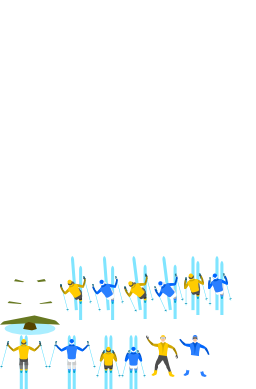
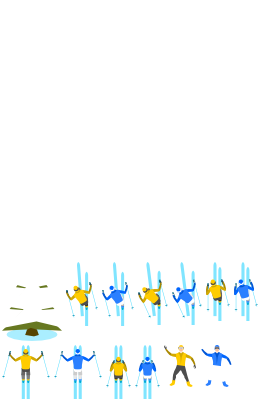
Fixed border in atlas

Changed region(s): [[0.0, 0.6478, 1.0, 1.0], [0.125, 0.7095, 0.1875, 0.7404]]

diff --git a/index.html b/index.html
@@ -57,8 +57,8 @@ var atlas,
 	upsideDown,
 	width,
 	height,
-	centerX,
-	centerY,
+	mapWidth,
+	mapHeight,
 	pointerLength = 0,
 	pointerX = [],
 	pointerY = [],
@@ -261,7 +261,7 @@ function reset()
 {
 	var cell = width/playersLength,
 		x = cell >> 1,
-		y = centerY*1.75 | 0;
+		y = height*.9 | 0;
 
 	for( var n = playersLength; n--; x += cell )
 		players[n] = {
@@ -272,36 +272,20 @@ function reset()
 				"skierBlueStraight" :
 				"skierYellowStraight"] };
 
-	var sw = sprites.tree.width,
-		sh = sprites.tree.height,
-		w = sw*1.5 | 0,
-		h = sh*1.5 | 0,
-		rx = sw*.5 | 0,
-		ry = sh*.5 | 0,
-		cols = width/w | 0,
-		rows = height/h | 0,
-		map = [];
+	mapWidth = width;
+	mapHeight = height;
 
-	for( var n = objectsLength; n--; )
-		for( ;; )
-		{
-			var x = Math.random()*(cols-1) | 0,
-				y = Math.random()*(rows-1) | 0,
-				offset = y*cols+x;
+	for( var n = objectsLength, y = 0;
+		n--;
+		y += Math.random()*.1 )
+	{
+		var x = Math.random();
 
-			if( map[offset] != 1 )
-			{
-				map[offset] = 1;
-
-				objects[n] = {
-					x: x*w+(Math.random()*rx | 0),
-					y: y*h+(Math.random()*ry | 0),
-					sprite: sprites.tree
-				};
-
-				break;
-			}
-		}
+		objects[n] = {
+			x: (n % 2 ? (x < .5 ? 0 : .9)+x*.1 : x)*mapWidth | 0,
+			y: y*mapHeight | 0,
+			sprite: sprites.tree };
+	}
 }
 
 function scale( styleWidth )
@@ -309,99 +293,101 @@ function scale( styleWidth )
 	var frames = {
 			skierBlueStraight: {
 				rotate: true,
-				frame: {/*skier-blue-straight*/x:121,y:335,w:25,h:54}
+				frame: {/*skier-blue-straight*/x:135,y:345,w:25,h:54}
 			},
 			skierBlueJump: {
 				rotate: true,
-				frame: {/*skier-blue-jump*/x:48,y:335,w:48,h:54}
+				frame: {/*skier-blue-jump*/x:54,y:345,w:48,h:54}
 			},
 			skierBlueLeanLeft1: {
 				rotate: true,
-				frame: {/*skier-blue-lean1-left*/x:208,y:256,w:24,h:59}
+				frame: {/*skier-blue-lean1-left*/x:234,y:262,w:24,h:59}
 			},
 			skierBlueLeanLeft2: {
 				rotate: true,
-				frame: {/*skier-blue-lean2-left*/x:92,y:256,w:32,h:64}
+				frame: {/*skier-blue-lean2-left*/x:102,y:262,w:32,h:64}
 			},
 			skierBlueLeanLeft3: {
 				rotate: true,
-				frame: {/*skier-blue-lean3-left*/x:154,y:256,w:30,h:63}
+				frame: {/*skier-blue-lean3-left*/x:172,y:262,w:30,h:63}
 			},
 			skierBlueLeanRight1: {
 				mirror: true,
 				rotate: true,
-				frame: {/*skier-blue-lean1-left*/x:208,y:256,w:24,h:59}
+				frame: {/*skier-blue-lean1-left*/x:234,y:262,w:24,h:59}
 			},
 			skierBlueLeanRight2: {
 				mirror: true,
 				rotate: true,
-				frame: {/*skier-blue-lean2-left*/x:92,y:256,w:32,h:64}
+				frame: {/*skier-blue-lean2-left*/x:102,y:262,w:32,h:64}
 			},
 			skierBlueLeanRight3: {
 				mirror: true,
 				rotate: true,
-				frame: {/*skier-blue-lean3-left*/x:154,y:256,w:30,h:63}
+				frame: {/*skier-blue-lean3-left*/x:172,y:262,w:30,h:63}
 			},
 			skierBlueCrashed: {
-				frame: {/*skier-blue-crashed*/x:178,y:335,w:32,h:42}
+				frame: {/*skier-blue-crashed*/x:200,y:345,w:32,h:42}
 			},
 			skierYellowStraight: {
 				rotate: true,
-				frame: {/*skier-yellow-straight*/x:96,y:335,w:25,h:54}
+				frame: {/*skier-yellow-straight*/x:106,y:345,w:25,h:54}
 			},
 			skierYellowJump: {
 				rotate: true,
-				frame: {/*skier-yellow-jump*/x:0,y:335,w:48,h:54}
+				frame: {/*skier-yellow-jump*/x:2,y:345,w:48,h:54}
 			},
 			skierYellowLeanLeft1: {
 				rotate: true,
-				frame: {/*skier-yellow-lean1-left*/x:184,y:256,w:24,h:59}
+				frame: {/*skier-yellow-lean1-left*/x:206,y:262,w:24,h:59}
 			},
 			skierYellowLeanLeft2: {
 				rotate: true,
-				frame: {/*skier-yellow-lean2-left*/x:60,y:256,w:32,h:64}
+				frame: {/*skier-yellow-lean2-left*/x:66,y:262,w:32,h:64}
 			},
 			skierYellowLeanLeft3: {
 				rotate: true,
-				frame: {/*skier-yellow-lean3-left*/x:124,y:256,w:30,h:63}
+				frame: {/*skier-yellow-lean3-left*/x:138,y:262,w:30,h:63}
 			},
 			skierYellowLeanRight1: {
 				mirror: true,
 				rotate: true,
-				frame: {/*skier-yellow-lean1-left*/x:184,y:256,w:24,h:59}
+				frame: {/*skier-yellow-lean1-left*/x:206,y:262,w:24,h:59}
 			},
 			skierYellowLeanRight2: {
 				mirror: true,
 				rotate: true,
-				frame: {/*skier-yellow-lean2-left*/x:60,y:256,w:32,h:64}
+				frame: {/*skier-yellow-lean2-left*/x:66,y:262,w:32,h:64}
 			},
 			skierYellowLeanRight3: {
 				mirror: true,
 				rotate: true,
-				frame: {/*skier-yellow-lean3-left*/x:124,y:256,w:30,h:63}
+				frame: {/*skier-yellow-lean3-left*/x:138,y:262,w:30,h:63}
 			},
 			skierYellowCrashed: {
-				frame: {/*skier-yellow-crashed*/x:146,y:335,w:32,h:42}
+				frame: {/*skier-yellow-crashed*/x:164,y:345,w:32,h:42}
 			},
 			tree: {
-				frame: {/*tree*/x:0,y:256,w:60,h:79}
+				frame: {/*tree*/x:2,y:262,w:60,h:79}
 			},
 			treeUpsideDown: {
 				upsideDown: true,
-				frame: {/*tree*/x:0,y:256,w:60,h:79}
+				frame: {/*tree*/x:2,y:262,w:60,h:79}
 			},
 			hump: {
-				frame: {/*hump*/x:0,y:0,w:256,h:256}
+				frame: {/*hump*/x:2,y:2,w:256,h:256}
 			}
 		},
-		ref = frames.hump.frame.w,
 		step = Math.PI*2/orientationsLength,
-		scale;
+		/*ref = frames.skierBlueStraight.frame.w,
+		target = styleWidth*.05 | 0,
+		scale;*/
+		scale = width*.05/frames.skierBlueStraight.frame.w;
 
-	if( styleWidth >= ref )
+	/*if( target >= ref )
 		scale = 1;
 	else
-		scale = width/ref;
+		scale = target/ref;*/
 
 	sprites = {};
 
@@ -526,9 +512,6 @@ function resize()
 	width = w*ratio | 0;
 	height = h*ratio | 0;
 
-	centerX = width >> 1;
-	centerY = height >> 1;
-
 	canvas1.width = canvas2.width = width;
 	canvas1.height = canvas2.height = height;
 
@@ -570,7 +553,6 @@ function init()
 
 	upsideDown = navigator.userAgent.match(
 		/ipad|iphone|ipod|android|blackberry|webos/i );
-upsideDown = true;
 
 	window.onresize = resize;
 	resize();
